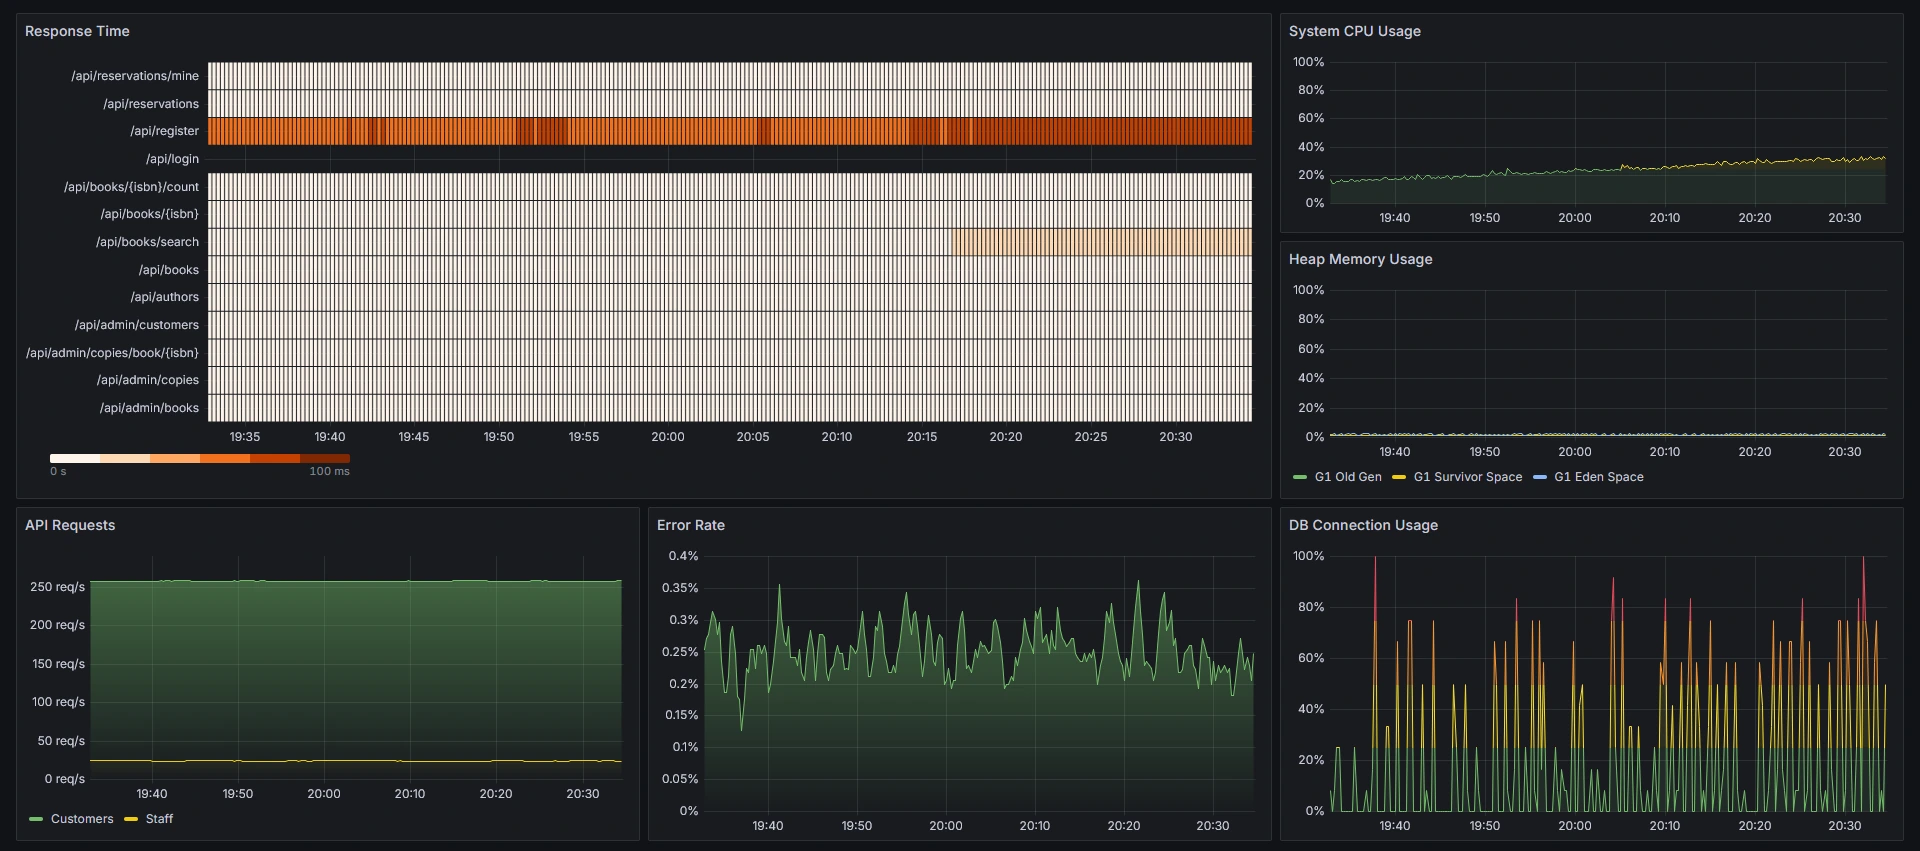
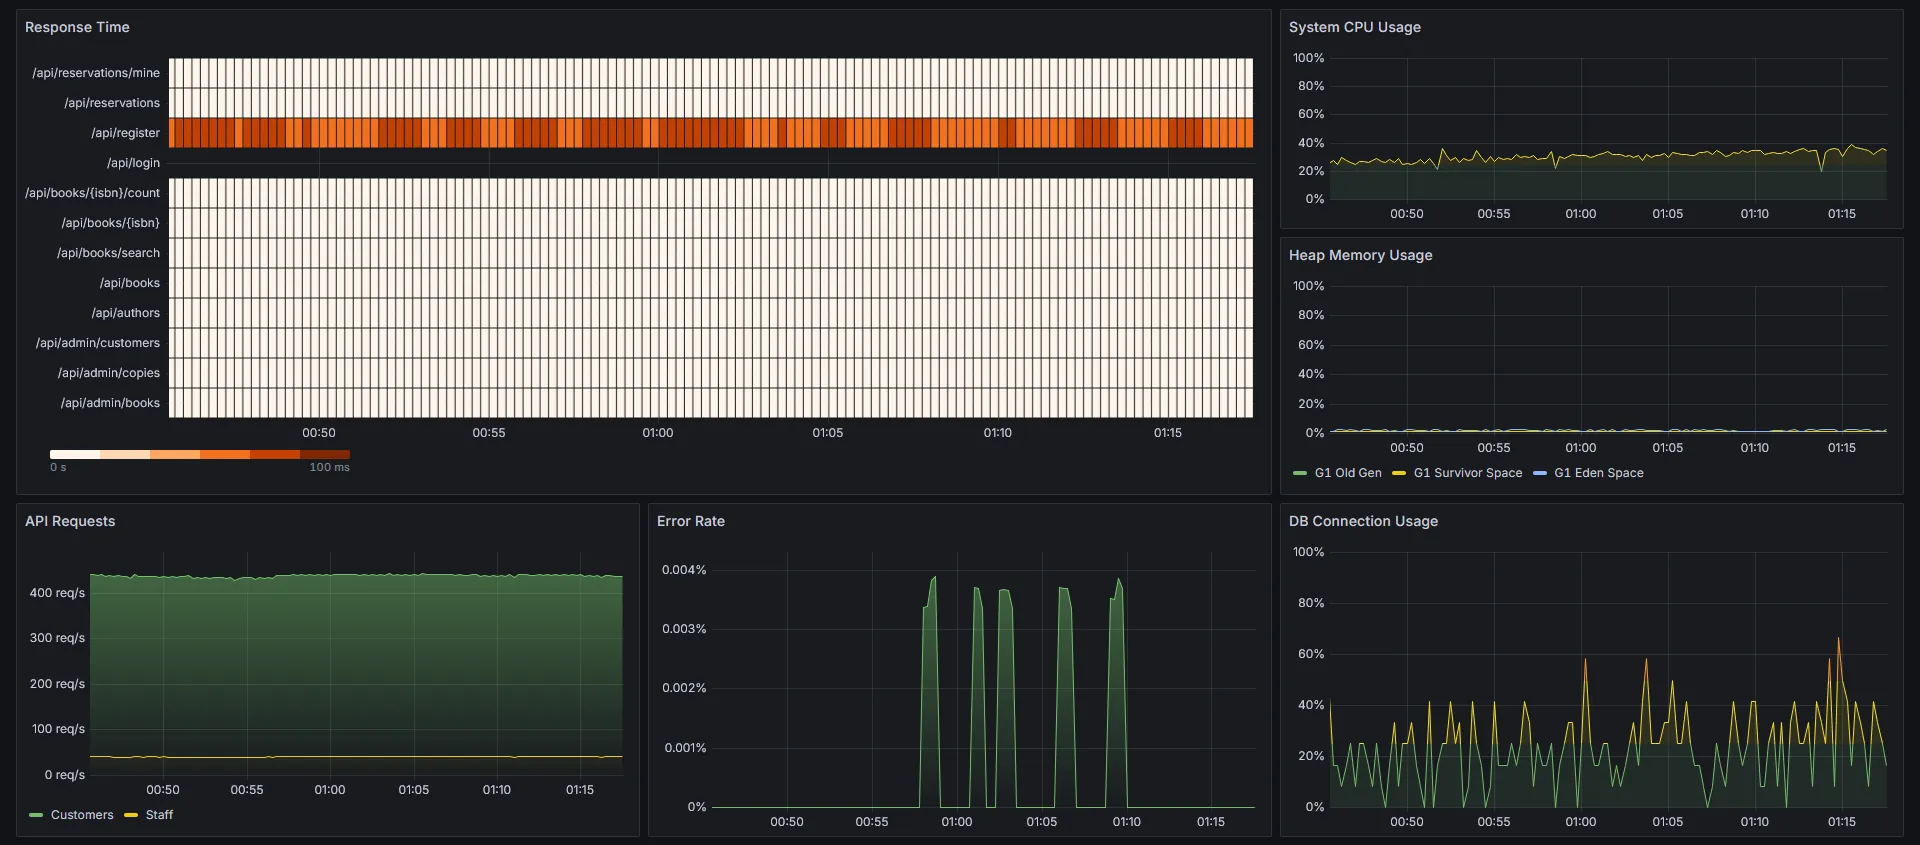
Optimize book search logic; change logging levels; update Grafana dashboard and screenshot

diff --git a/src/main/java/librarymanagement/service/CopyService.java b/src/main/java/librarymanagement/service/CopyService.java
@@ -126,11 +126,11 @@ public class CopyService {
         log.info("Reserving any available copy for book with ISBN: {} for customer ID: {}", isbn, customerId);
         Page<Copy> availableCopies = copyRepository.findByBookIsbnAndStatus(isbn, CopyStatus.AVAILABLE, Pageable.unpaged());
         if (availableCopies.isEmpty()) {
-            log.warn("No available copies found for book with ISBN: {}", isbn);
+            log.info("No available copies found for book with ISBN: {}", isbn);
             throw new ResourceNotFoundException(Messages.COPY_NO_AVAILABLE + isbn);
         }
 
-        Copy copyToReserve = availableCopies.getContent().get(0); // Reserve the first available copy
+        Copy copyToReserve = availableCopies.getContent().getFirst(); // Reserve the first available copy
         log.info("Reserving copy with ID: {} for customer ID: {}", copyToReserve.getId(), customerId);
         return reserveCopy(copyToReserve.getId(), customerId);
     }
@@ -185,14 +185,14 @@ public class CopyService {
             return checkoutAvailableCopy(copy, customer);
         }
 
-        log.warn("Copy with ID: {} is not available for checkout, current status: {}", copyId, copy.getStatus());
+        log.info("Copy with ID: {} is not available for checkout, current status: {}", copyId, copy.getStatus());
         throw new IllegalStateException(Messages.COPY_UNAVAILABLE_FOR_CHECKOUT + copy.getStatus());
     }
 
     private Copy checkoutReservedCopy(Copy copy, Customer customer) {
         log.info("Checking out reserved copy with ID: {} for customer ID: {}", copy.getId(), customer.getId());
         if (!copy.getCustomer().getId().equals(customer.getId())) {
-            log.warn("Copy with ID: {} is reserved for another customer ID: {}, cannot checkout", copy.getId(), copy.getCustomer().getId());
+            log.info("Copy with ID: {} is reserved for another customer ID: {}, cannot checkout", copy.getId(), copy.getCustomer().getId());
             throw new IllegalStateException(Messages.COPY_RESERVED_FOR_ANOTHER_CUSTOMER + copy.getCustomer().getId());
         }
         copy.setStatus(CopyStatus.BORROWED);

diff --git a/src/main/java/librarymanagement/controller/GlobalExceptionHandler.java b/src/main/java/librarymanagement/controller/GlobalExceptionHandler.java
@@ -1,9 +1,13 @@
 package librarymanagement.controller;
 
+import jakarta.servlet.http.HttpServletRequest;
 import librarymanagement.exception.DuplicateResourceException;
 import librarymanagement.exception.ResourceNotFoundException;
+import org.slf4j.Logger;
+import org.slf4j.LoggerFactory;
 import org.springframework.http.HttpStatus;
 import org.springframework.http.ResponseEntity;
+import org.springframework.security.authorization.AuthorizationDeniedException;
 import org.springframework.validation.FieldError;
 import org.springframework.web.bind.MethodArgumentNotValidException;
 import org.springframework.web.bind.annotation.ControllerAdvice;
@@ -14,6 +18,8 @@ import java.util.Map;
 
 @ControllerAdvice
 public class GlobalExceptionHandler {
+
+    private static final Logger log = LoggerFactory.getLogger(GlobalExceptionHandler.class);
 
     @ExceptionHandler(MethodArgumentNotValidException.class)
     public ResponseEntity<Map<String, String>> handleValidationErrors(MethodArgumentNotValidException ex) {
@@ -52,5 +58,22 @@ public class GlobalExceptionHandler {
         Map<String, String> error = new HashMap<>();
         error.put("error", ex.getMessage());
         return new ResponseEntity<>(error, HttpStatus.BAD_REQUEST);
+    }
+
+    @ExceptionHandler(AuthorizationDeniedException.class)
+    public ResponseEntity<Map<String, String>> handleAuthorizationDenied(AuthorizationDeniedException ex) {
+        Map<String, String> error = new HashMap<>();
+        error.put("error", ex.getMessage());
+        return new ResponseEntity<>(error, HttpStatus.FORBIDDEN);
+    }
+
+    @ExceptionHandler(Exception.class)
+    public ResponseEntity<Map<String, String>> handleUnexpectedError(Exception ex, HttpServletRequest request) {
+        log.error("Unexpected error occurred during request to {} {}", request.getMethod(), request.getRequestURI(), ex);
+
+        Map<String, String> error = new HashMap<>();
+        error.put("error", "An unexpected error occurred. Please try again later");
+
+        return new ResponseEntity<>(error, HttpStatus.INTERNAL_SERVER_ERROR);
     }
 }

diff --git a/src/main/java/librarymanagement/service/BookService.java b/src/main/java/librarymanagement/service/BookService.java
@@ -54,12 +54,12 @@ public class BookService {
         String cleanTerm = searchTerm.trim();
 
         Page<Book> titleResults = bookRepository.findByTitleContaining(cleanTerm, pageable);
-        Page<Book> authorResults = bookRepository.findByAuthorContaining(cleanTerm, pageable);
 
-        if (!(titleResults.getNumberOfElements() == 0)) {
+        if (titleResults.getTotalElements() != 0) {
             log.debug("Found {} books matching title search for term: '{}'", titleResults.getNumberOfElements(), cleanTerm);
             return titleResults;
         } else {
+            Page<Book> authorResults = bookRepository.findByAuthorContaining(cleanTerm, pageable);
             log.debug("No books found matching title search for term: '{}'. Returning {} books by authors",
                     cleanTerm, authorResults.getNumberOfElements());
             return authorResults;

diff --git a/src/main/java/librarymanagement/service/SecurityService.java b/src/main/java/librarymanagement/service/SecurityService.java
@@ -25,7 +25,7 @@ public class SecurityService {
 
         Optional<User> optionalUser = userRepository.findByUsername(username);
         if (optionalUser.isEmpty()) {
-            log.warn("User not found in security context: {}", username);
+            log.error("User not found in security context: {}", username);
             throw new IllegalStateException("User not found in the security context");
         }
         if (optionalUser.get().getCustomer() == null) {
